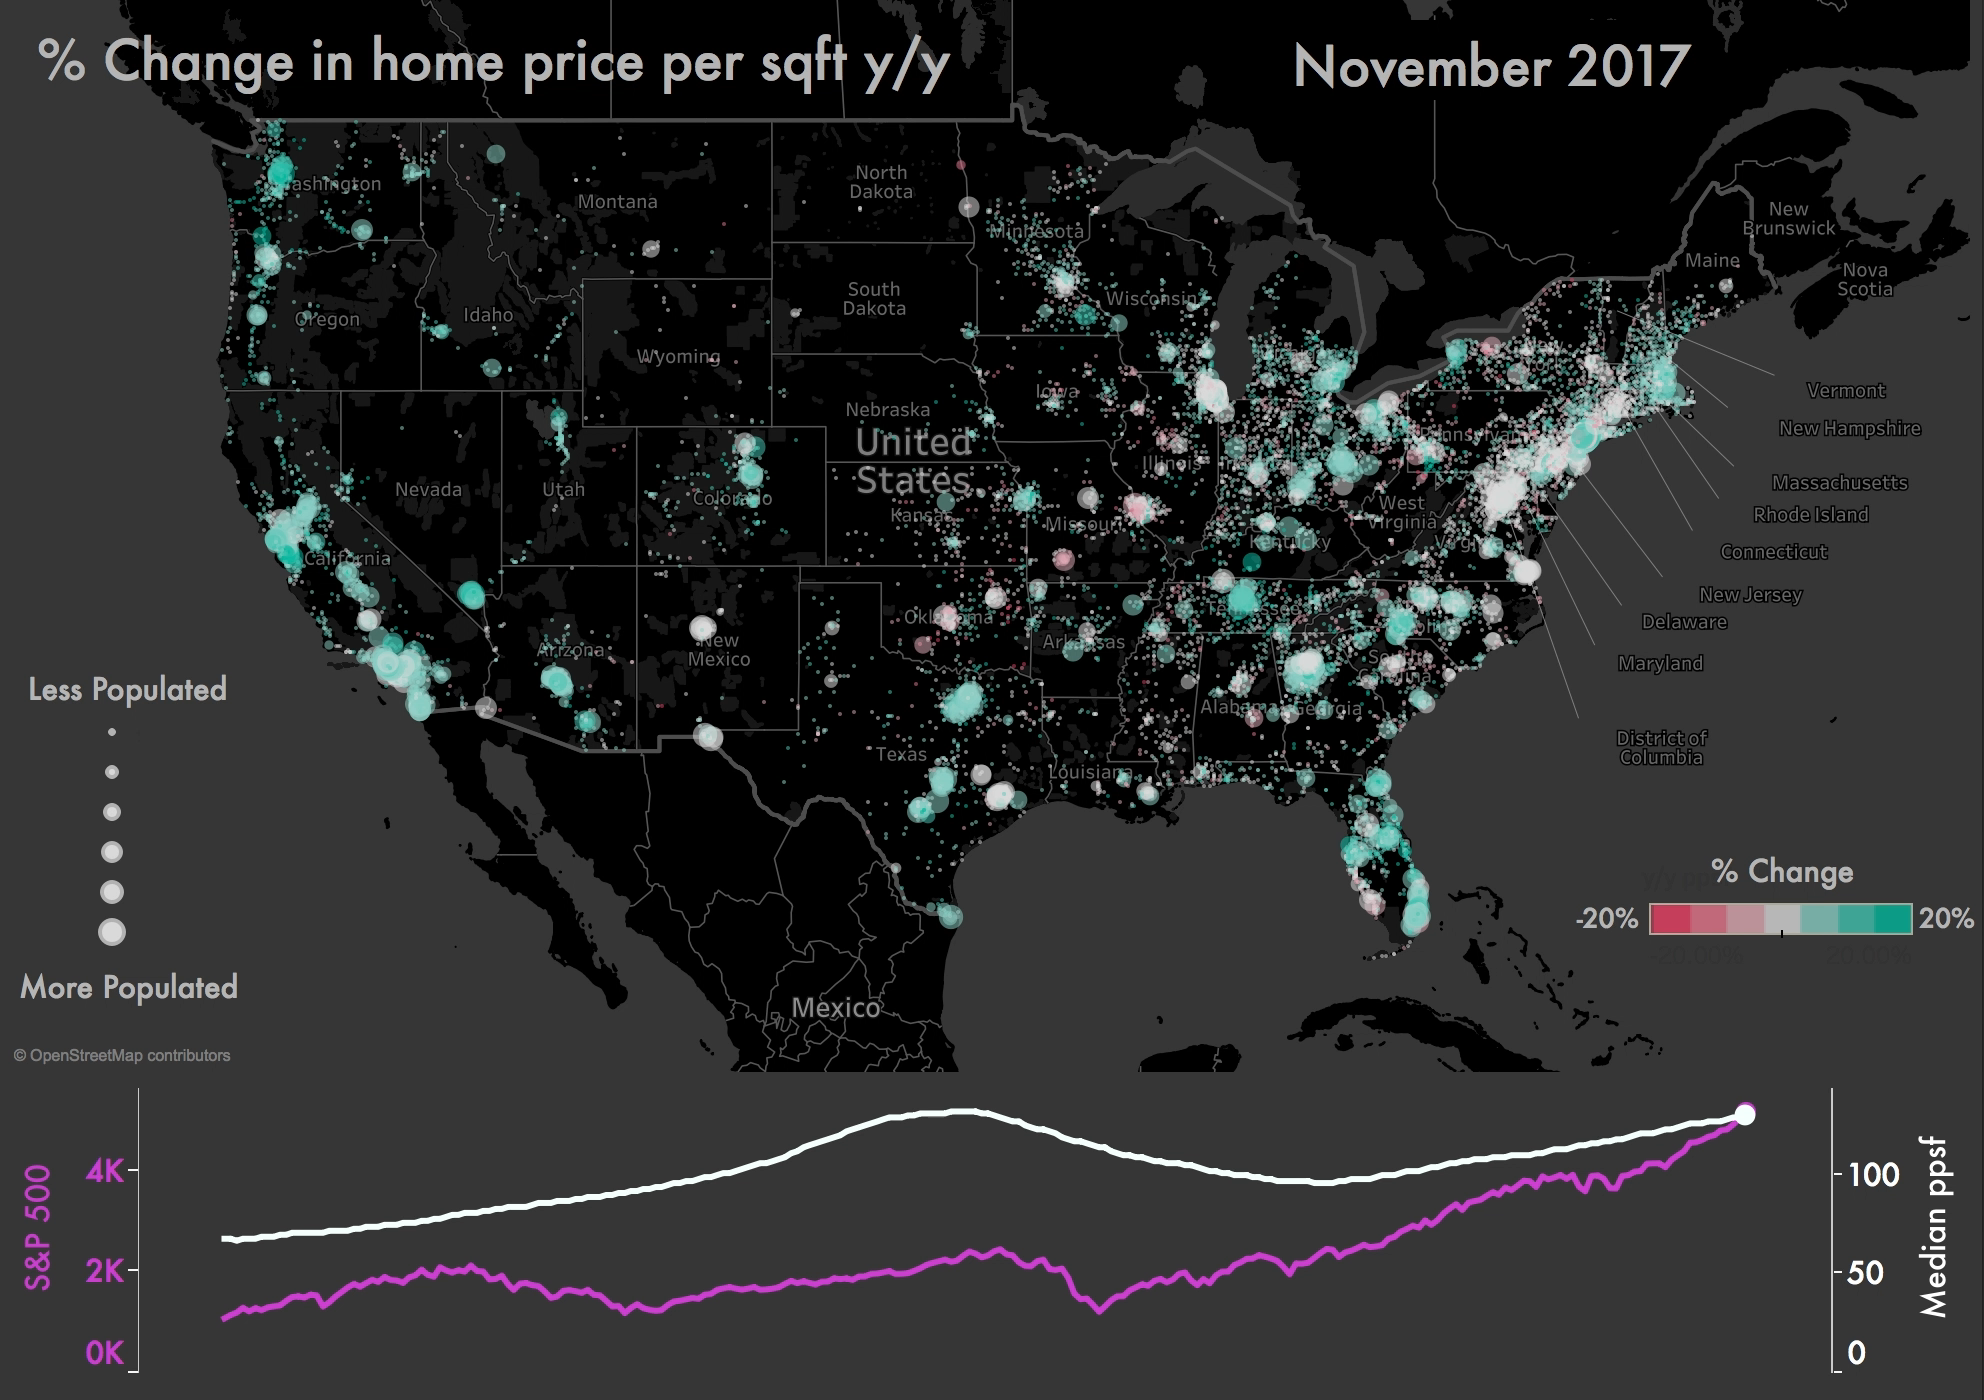
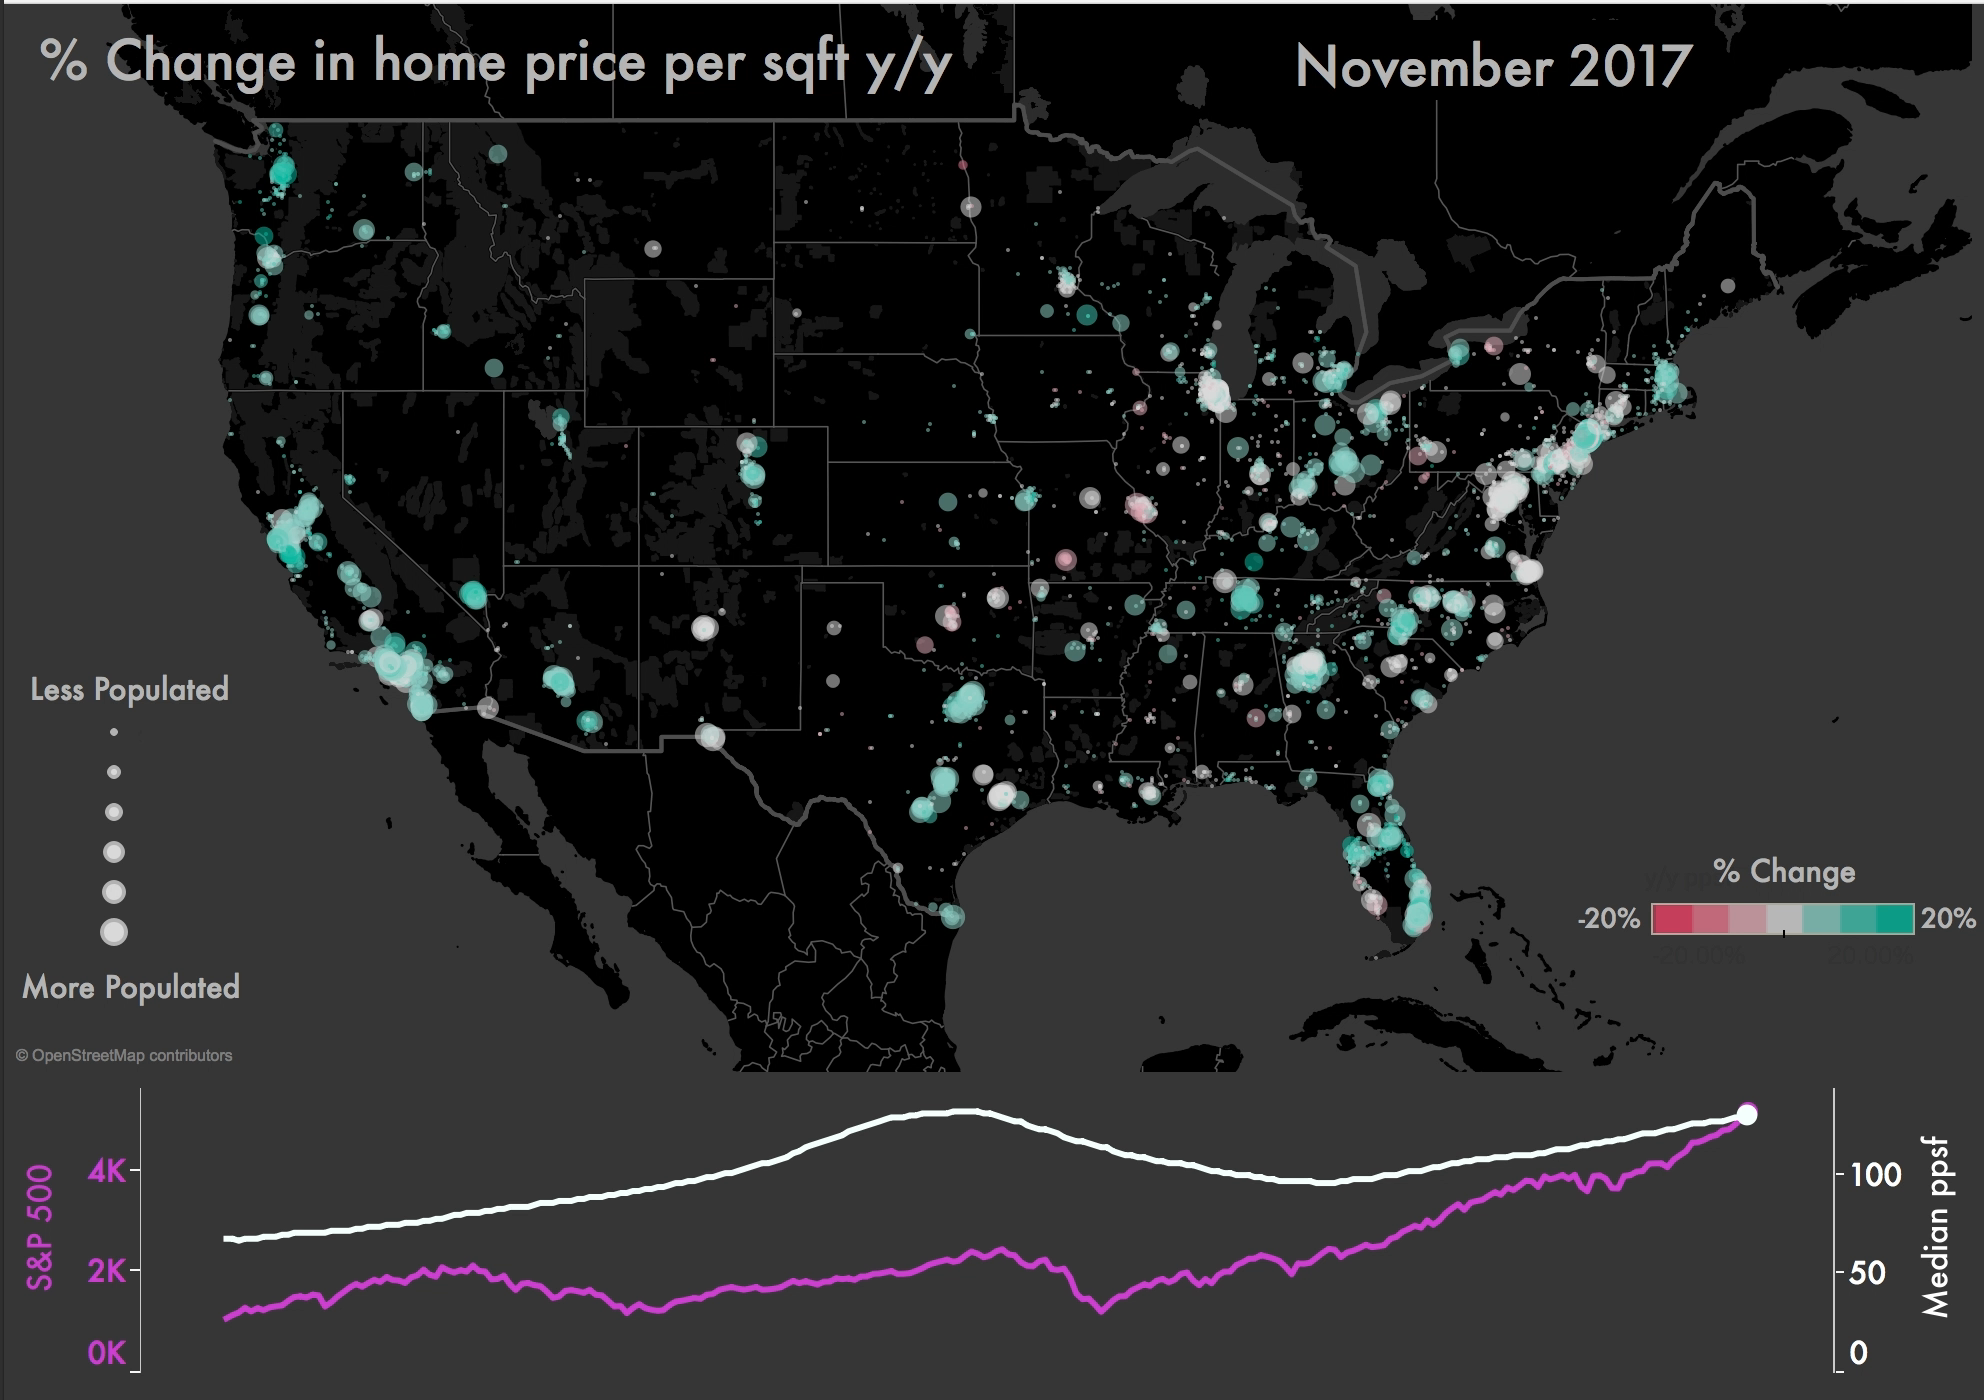
simplify gif

diff --git a/home_value.html b/home_value.html
@@ -55,7 +55,7 @@
 					<p><img src="assets/img/user.png" width="5%" height="5%"> <ba>Data Walrus</ba></p>
 					<p><bd>December 22, 2017</bd></p>
 					<h4>House hunters</h4>
-					<p>I recently stumbled upon some great housing data from <a href = https://www.zillow.com/research/data/> zillow </a>and decided to play around with it. I was interested to see how much home values have historically changed. With that, I started to put together a visualization that highlighted the year over year percent change in price per square foot (ppsf) by zip code. The visualization also shows how the median ppsf compares to the S&P 500 during the same period. I used Tableau to create an animation of this progression over the last 20 years</p>
+					<p>I recently stumbled upon some great housing data from <a href = https://www.zillow.com/research/data/> zillow </a>and decided to play around with it. I was interested to see how much home values have historically changed. With that, I started to put together a visualization that highlighted the year over year percent change in price per square foot (ppsf) by zip code (adjusted for inflation). The visualization also shows how the median ppsf compares to the S&P 500 during the same period. I used Tableau to create an animation of this progression over the last 20 years</p>
 					
 					<p><img class="img-responsive" src="assets/img/home_value.gif" alt=""></p>
 					<p>Each bubble on the map is a specific zip code. These bubbles will be larger if they have a high population. For the percent change I compared the ppsf of a month to the previous year's ppsf of the same month. The bubble will be a darker green/blue (aqua?) if there is a high percentage increase and a darker red if there is a large percentage decrease. Finally, I added a scrolling line chart at the bottom to show the median ppsf in the US over time, as well as the S&P 500 as an index.</p>
